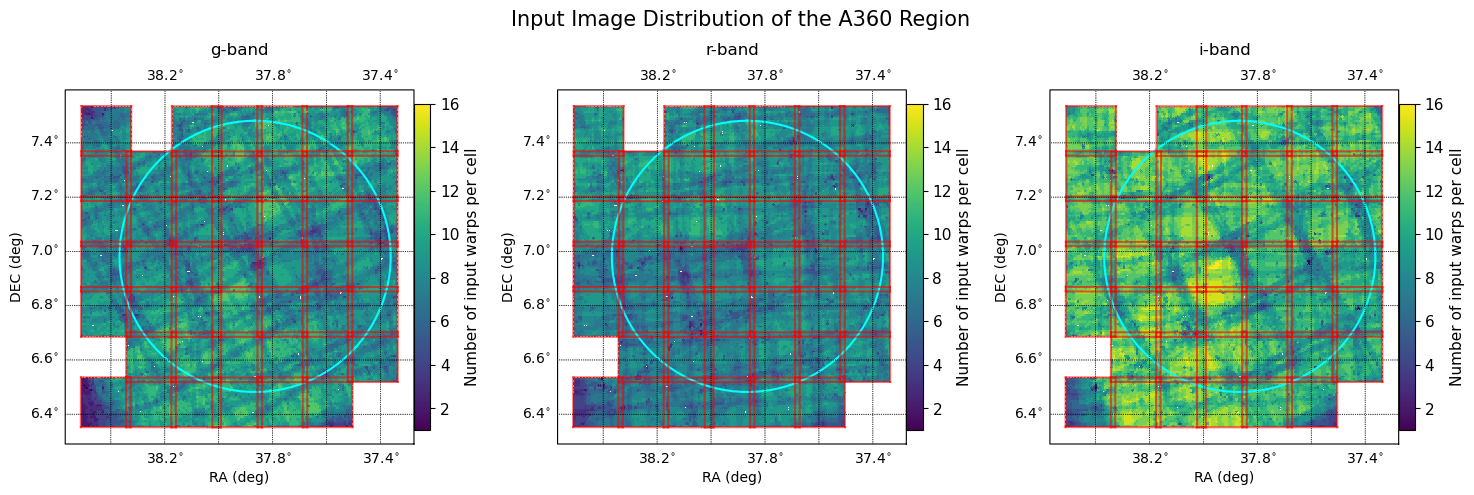
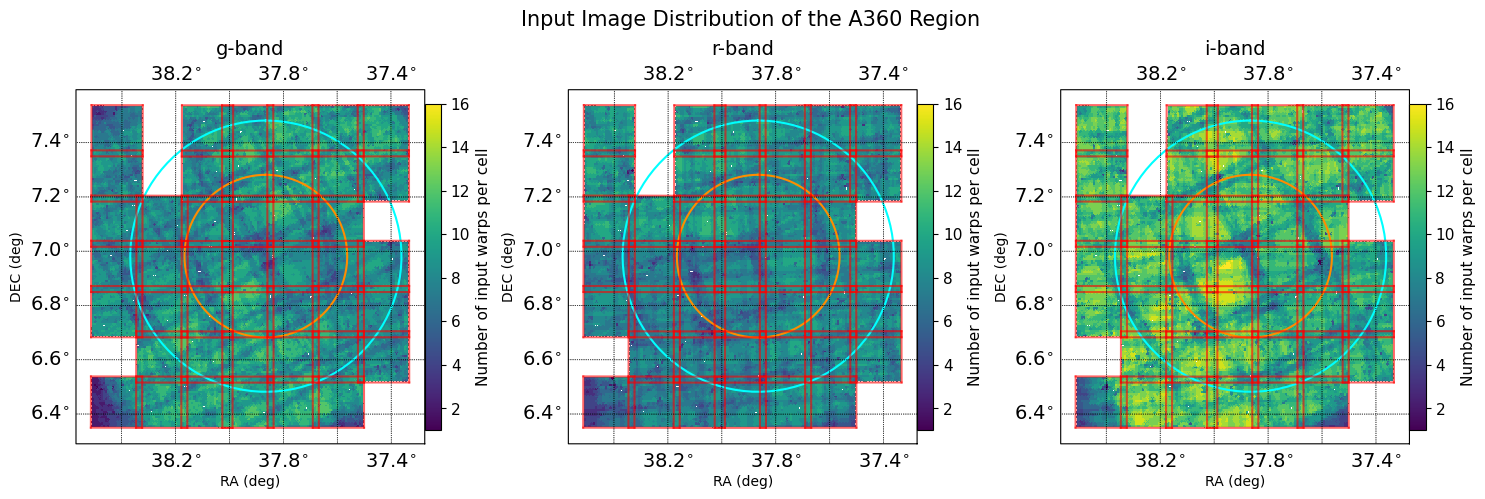
Add 0.3 degree circle to input distribution plot

diff --git a/index.md b/index.md
@@ -73,7 +73,7 @@ Metadetection utilizes both inner and outer boundaries of cells. However, the im
 ```{figure} _static/3_band_image_distribution.png
 :name: image_dist
 
-These three figures show the input image distribution for the patches, each composed of 484 cells, around A360 in the g, r, and i-bands. The red squares outline the inner patch boundaries, where the 2 cell overlap is visible. The three missing patches are due to processing errors when running Metadetection, though they do not significantly overlap with the 0.5 degree radius around the BCG (cyan circle). The colorbar is scaled to the minimum and maximum number of inputs images across the three bands (1 and 16, respectively).
+These three figures show the input image distribution for the patches, each composed of 484 cells, around A360 in the g, r, and i-bands. The red squares outline the inner patch boundaries, where the 2 cell overlap is visible. The three missing patches are due to processing errors when running Metadetection, though they do not significantly overlap with the 0.5 degree radius around the BCG (cyan circle). Additionally, the 0.3 degree radius (orange circle) contains no missing patches; this radius contains the upper limit of the data used for the shear profile after binning is applied. The colorbar is scaled to the minimum and maximum number of inputs images across the three bands (1 and 16, respectively).
 ```
 
 ```{figure} _static/3_band_psf_e_distribution.png
